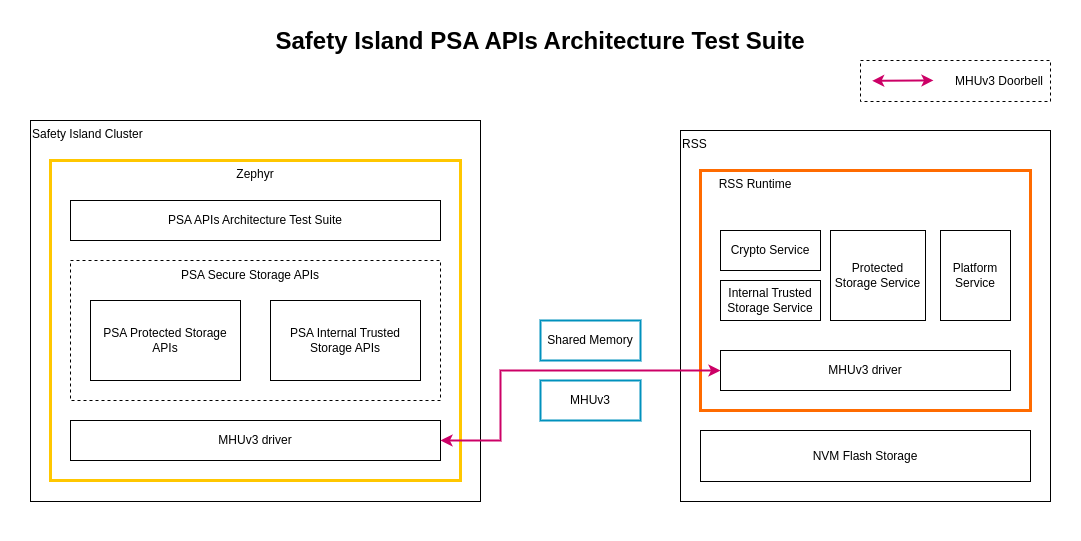
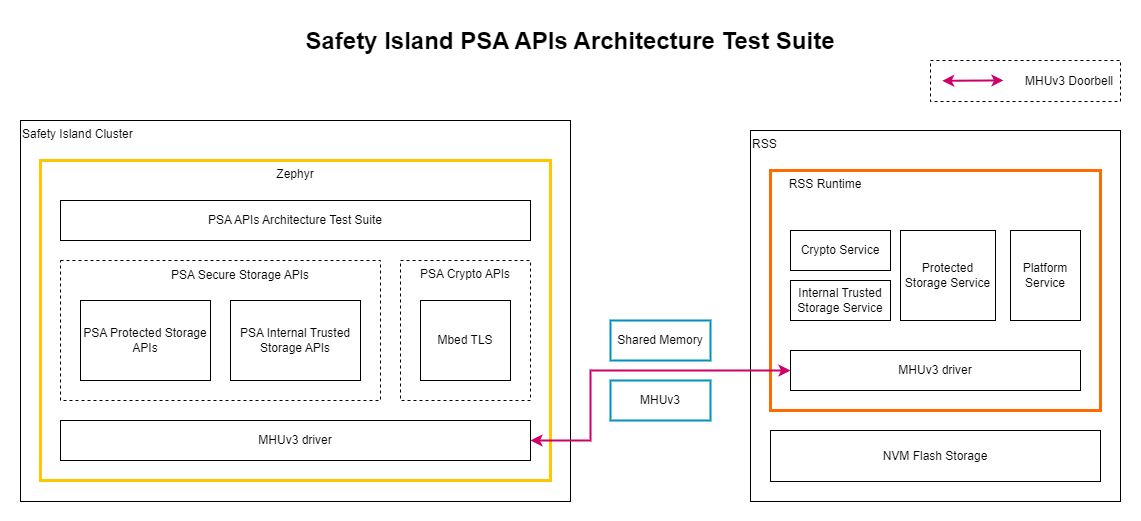
doc: Add SI Crypto part to psa_arch_tests.rst
Updated the diagram.
Added the a section for PSA Crypto test suite.

diff --git a/documentation/design/applications/psa_arch_tests.rst b/documentation/design/applications/psa_arch_tests.rst
@@ -40,6 +40,8 @@ Diagram
 
 |
 
+.. _design_applications_psa_arch_tests_secure_storage:
+
 ***********************************************
 PSA Secure Storage APIs Architecture Test Suite
 ***********************************************
@@ -114,6 +116,40 @@ Please refer to `Trusted Firmware-M PSA Protected Storage Interfaces`_ and
 `Trusted Firmware-M PSA Internal Trusted Storage Interfaces`_ for more
 information.
 
+.. _design_applications_psa_arch_tests_crypto:
+
+***************************************
+PSA Crypto APIs Architecture Test Suite
+***************************************
+
+The `PSA Crypto APIs Architecture Test Suite`_ is integrated in a Zephyr
+application. The application is deployed on all the 3 Safety Island Clusters.
+
+The test suite contains 61 test cases in total. The test cases are executed in
+sequence. At the end of the test suite, a log similar to the following should be
+visible on all the 3 Safety Island terminals. Normally, no failure should be
+seen::
+
+.. code-block:: console
+
+  ************ Crypto Suite Report **********
+  TOTAL TESTS     : 61
+  TOTAL PASSED    : 61
+  TOTAL SIM ERROR : 0
+  TOTAL FAILED    : 0
+  TOTAL SKIPPED   : 0
+  ******************************************
+
+PSA Crypto APIs
+===============
+
+The PSA Crypto APIs are implemented by `Mbed TLS`_. In Mbed TLS, different
+crypto APIs are handled in different ways. For asymmetric crypto operations, the
+RSS secure service is invoked by calling the ``psa_call()`` interface. The other
+crypto operations are handled on Safety Island by Mbed TLS software
+implementation. For more information on the Mbed TLS implementation, please
+refer to :ref:`design_safety_island_secure_services_psa_crypto_apis`.
+
 **********
 Validation
 **********
@@ -131,3 +167,7 @@ to:
 * Add PSA Arch Tests as a Zephyr module.
 * Move a Secure Storage test to be the final one in the test suite as it causes
   Denial of Service to the Primary Compute.
+* Change the key location of asymmetric crypto operation test cases, so the RSS
+  secure service can be called.
+* Postpone the time-consuming crypto test case for ``psa_generate_key`` to the
+  end of the execution sequence.
